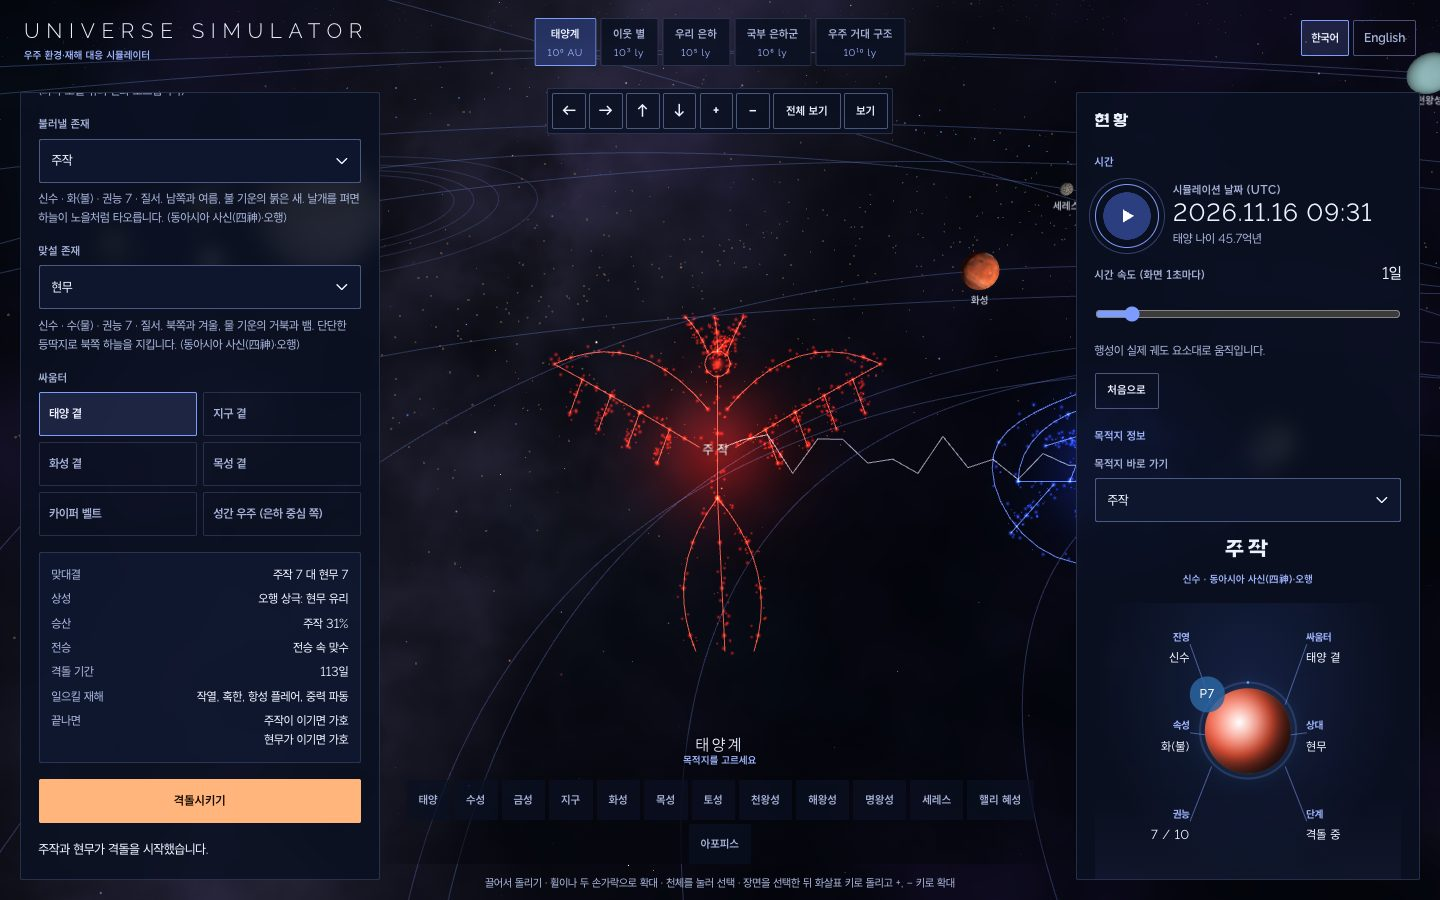
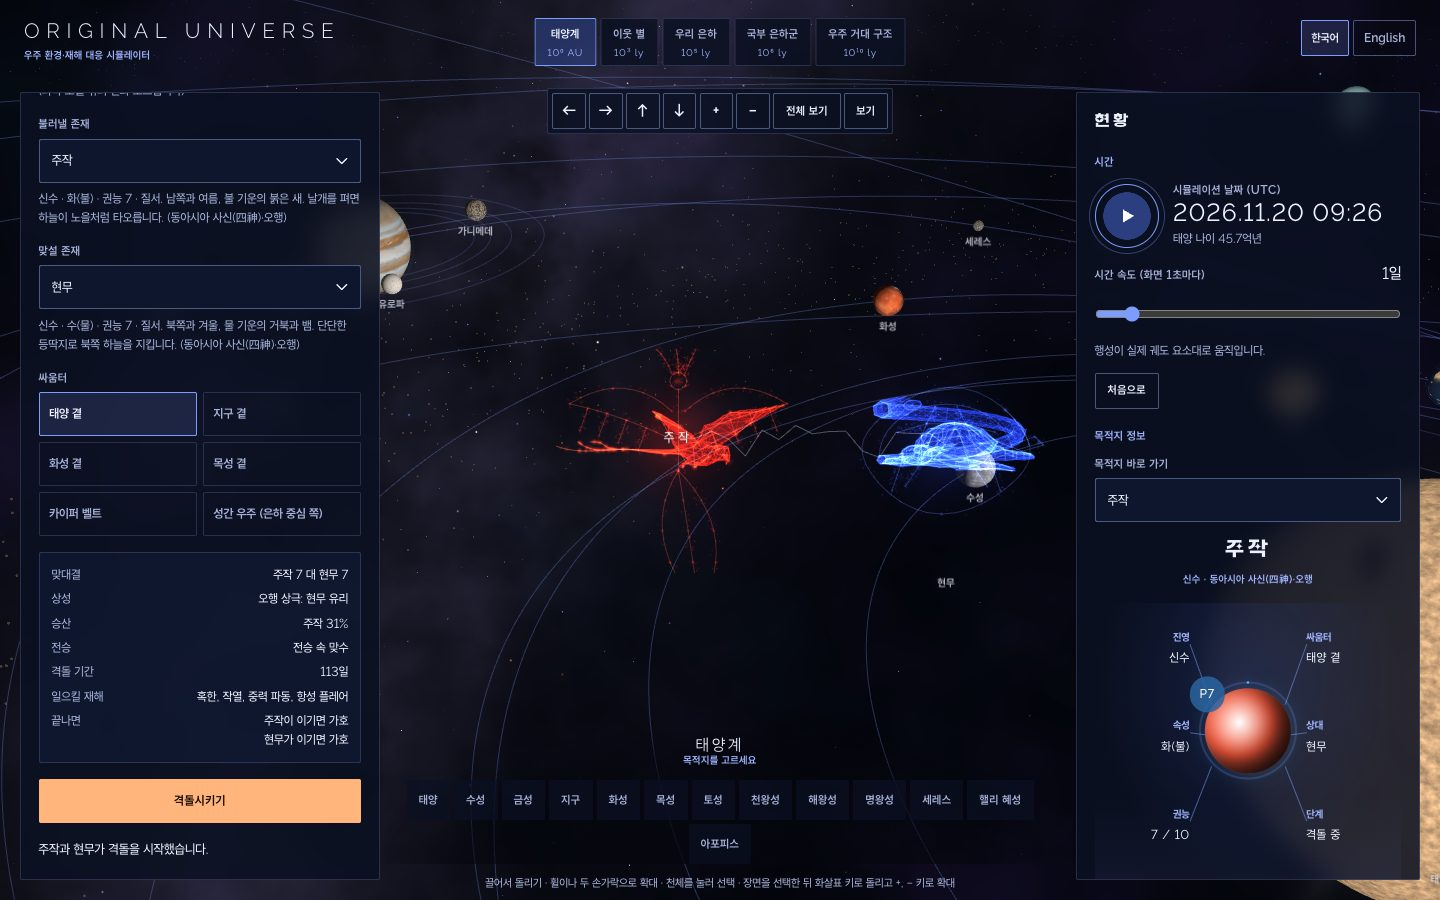
docs: 3D 존재와 새 이름으로 README 화면 다시 찍기 (태양계·토성·격돌)

diff --git a/README.md b/README.md
@@ -19,9 +19,9 @@
 | ---------------------------------------------------------------------------- | -------------------------------------------------------------------------------------------------------------- |
 | ![고리가 있는 토성을 정이십면체 선이 감싼 근접 화면](docs/images/saturn.jpg) | ![태양에서 퍼져 나간 캐링턴급 코로나 질량 방출 껍질이 금성과 지구 쪽으로 다가가는 모습](docs/images/storm.jpg) |
 
-| 블랙홀 근접 통과                                                                                                     | 우주적 존재의 격돌                                                                                                                                                                              |
-| -------------------------------------------------------------------------------------------------------------------- | ----------------------------------------------------------------------------------------------------------------------------------------------------------------------------------------------- |
-| ![태양계를 지나가는 태양 10배 질량의 블랙홀과 질량·거리·속도·단계를 보여 주는 정보 카드](docs/images/black-hole.jpg) | ![태양 곁에서 붉은 별자리 모양의 주작과 푸른 거북·뱀 모양의 현무가 번개 선으로 맞붙고, 왼쪽 패널에 상성·승산·일으킬 재해 미리보기, 오른쪽에 주작 정보 카드가 있는 화면](docs/images/mythic.jpg) |
+| 블랙홀 근접 통과                                                                                                     | 우주적 존재의 격돌                                                                                                                                                                                                                 |
+| -------------------------------------------------------------------------------------------------------------------- | ---------------------------------------------------------------------------------------------------------------------------------------------------------------------------------------------------------------------------------- |
+| ![태양계를 지나가는 태양 10배 질량의 블랙홀과 질량·거리·속도·단계를 보여 주는 정보 카드](docs/images/black-hole.jpg) | ![태양 곁에서 붉은 빛 면과 선으로 그린 3D 주작(불꽃 깃을 단 새)과 푸른 3D 현무(뱀 꼬리를 감은 거북)가 번개 선으로 맞붙고, 왼쪽 패널에 상성·승산·일으킬 재해 미리보기, 오른쪽에 주작 정보 카드가 있는 화면](docs/images/mythic.jpg) |
 
 | 아펩의 강림과 태양 잠식                                                                                                                                   | 우리 은하                                                                           |
 | --------------------------------------------------------------------------------------------------------------------------------------------------------- | ----------------------------------------------------------------------------------- |
